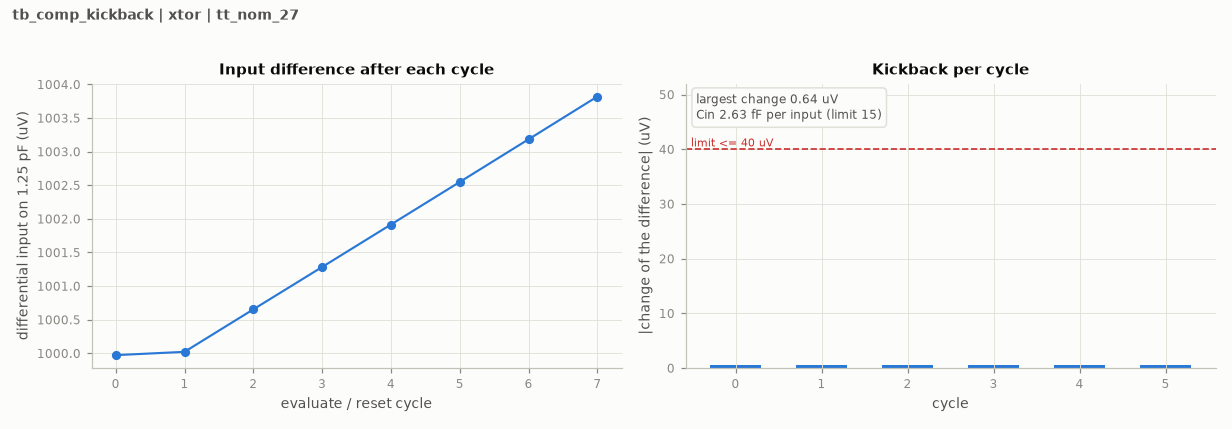
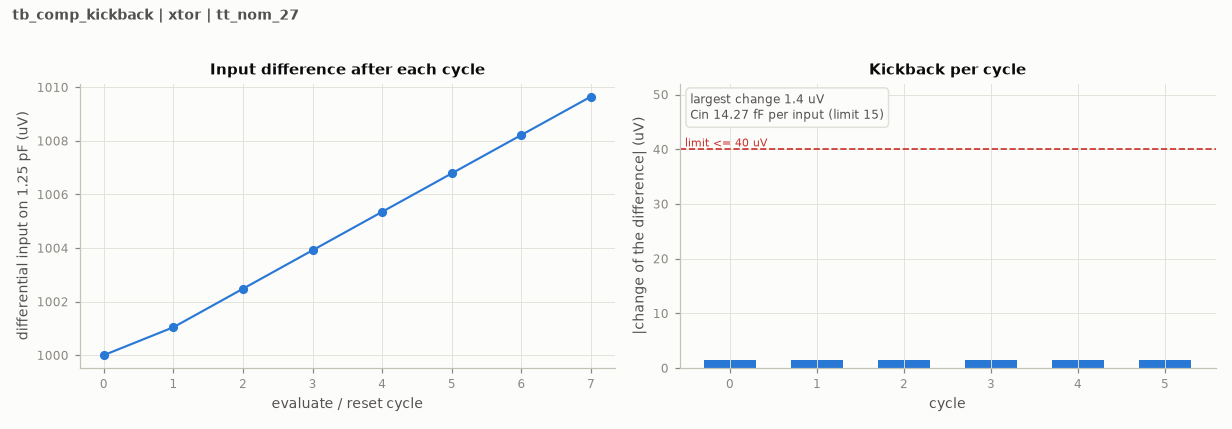
feat(adc_comp): preserve low-current StrongARM tradeoff

diff --git a/design/xtor/adc_comp/README.md b/design/xtor/adc_comp/README.md
@@ -16,6 +16,7 @@ its results; the results must not be copied onto another netlist version.
 | Experiment | Input / tail total W | Latch N / P total W | Noise | Delay at 1 mV / 30 mV | Reset | Energy | Cin | Kickback |
 |---|---|---|---|---|---|---|---|---|
 | sa01 | 8 / 12 um | 3 / 3 um | 584.7 uV | 22.24 / 15.13 ps | 20.09 ps | 54.97 fJ | 2.63 fF | 0.64 uV |
+| sa02 | 40 / 1 um | 6 / 6 um | 227.0 uV | 93.00 / 74.42 ps | 20.89 ps | 103.69 fJ | 14.27 fF | 1.44 uV |
 
 All MOS lengths are 30 nm. Each logical device uses parallel single-finger
 instances, represented by the netlist multiplier, with unit width at most
@@ -26,6 +27,12 @@ The sa01 delay, reset, decision-error, energy, input-capacitance and kickback
 metrics pass at TT. Its input noise fails the 80 uV requirement by a large
 margin. The fixed noise test spans only +/-300 uV, so a fitted noise above that
 window is an approximate diagnostic, not a precise wide-range characterization.
+
+The sa02 input-pair enlargement and smaller tail reduce noise, but noise still
+fails. Both TT delay limits now fail (80 ps at 1 mV, 50 ps at 30 mV), and input
+capacitance is close to the 15 fF limit. This is a tradeoff checkpoint, not an
+accepted candidate. The next experiment adds matched PDK MOM loading to P/N
+while restoring stronger tail current.
 
 Commands used for the existing acceptance tests:
 
